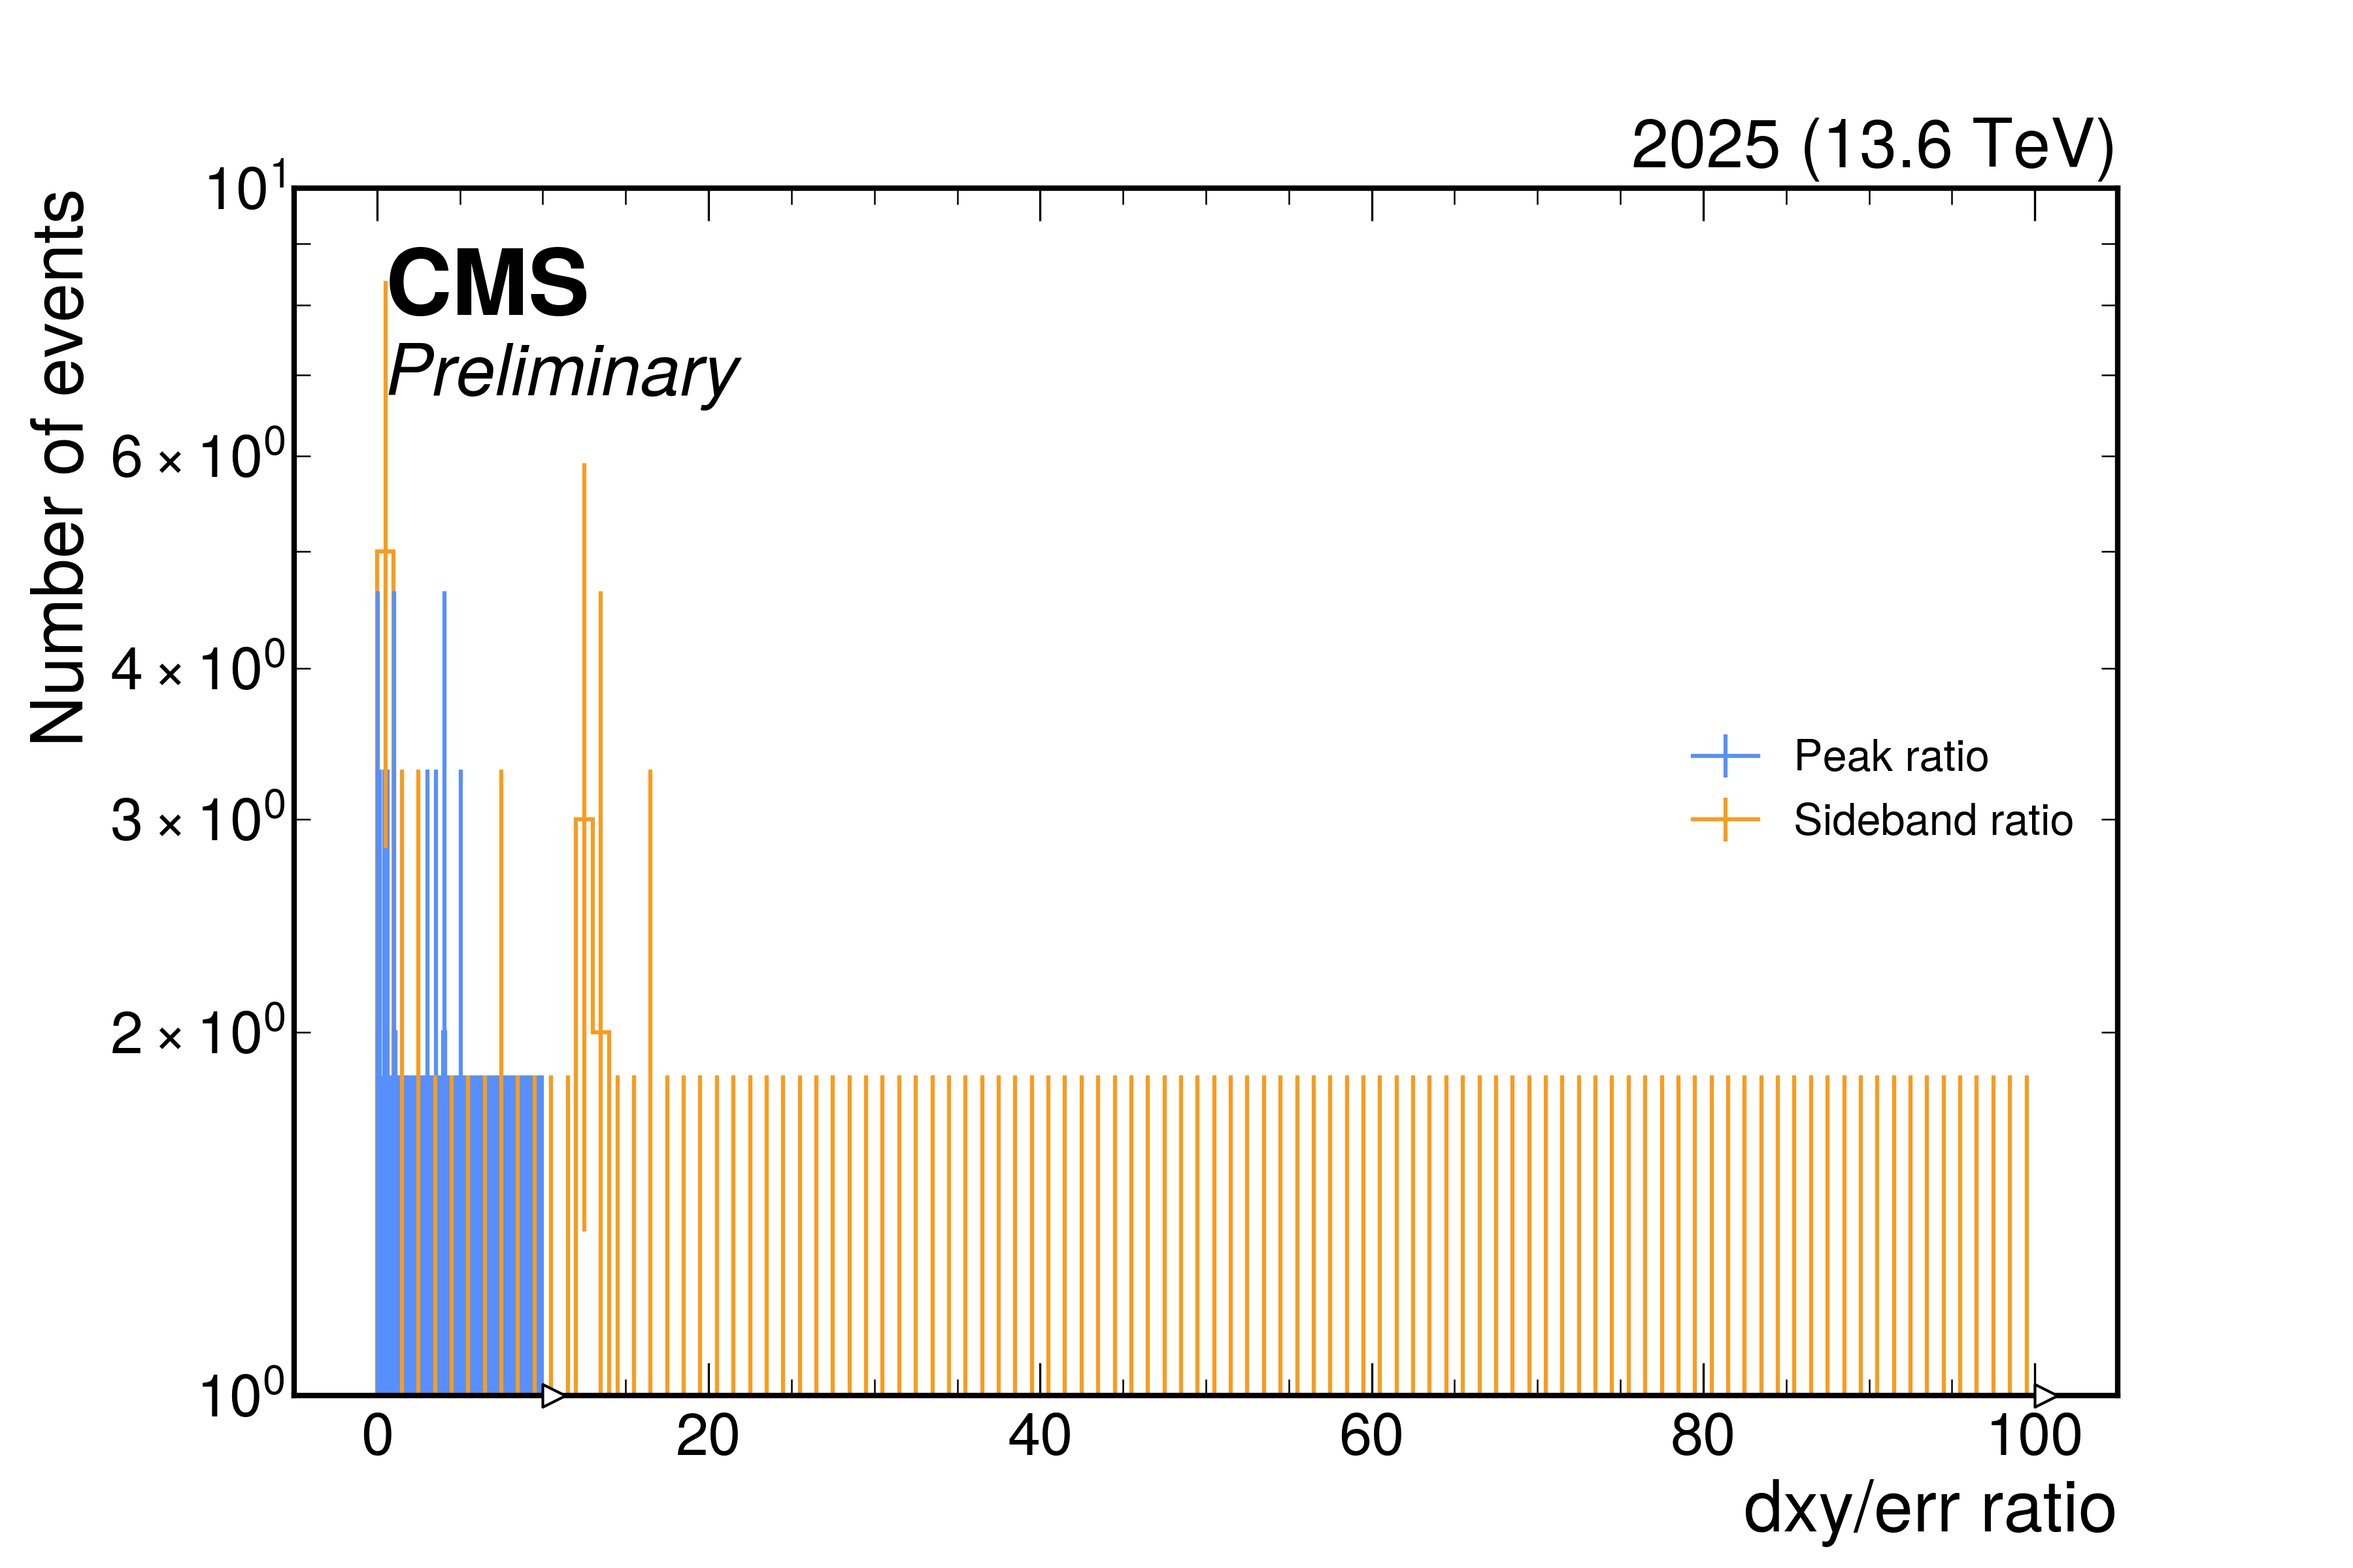
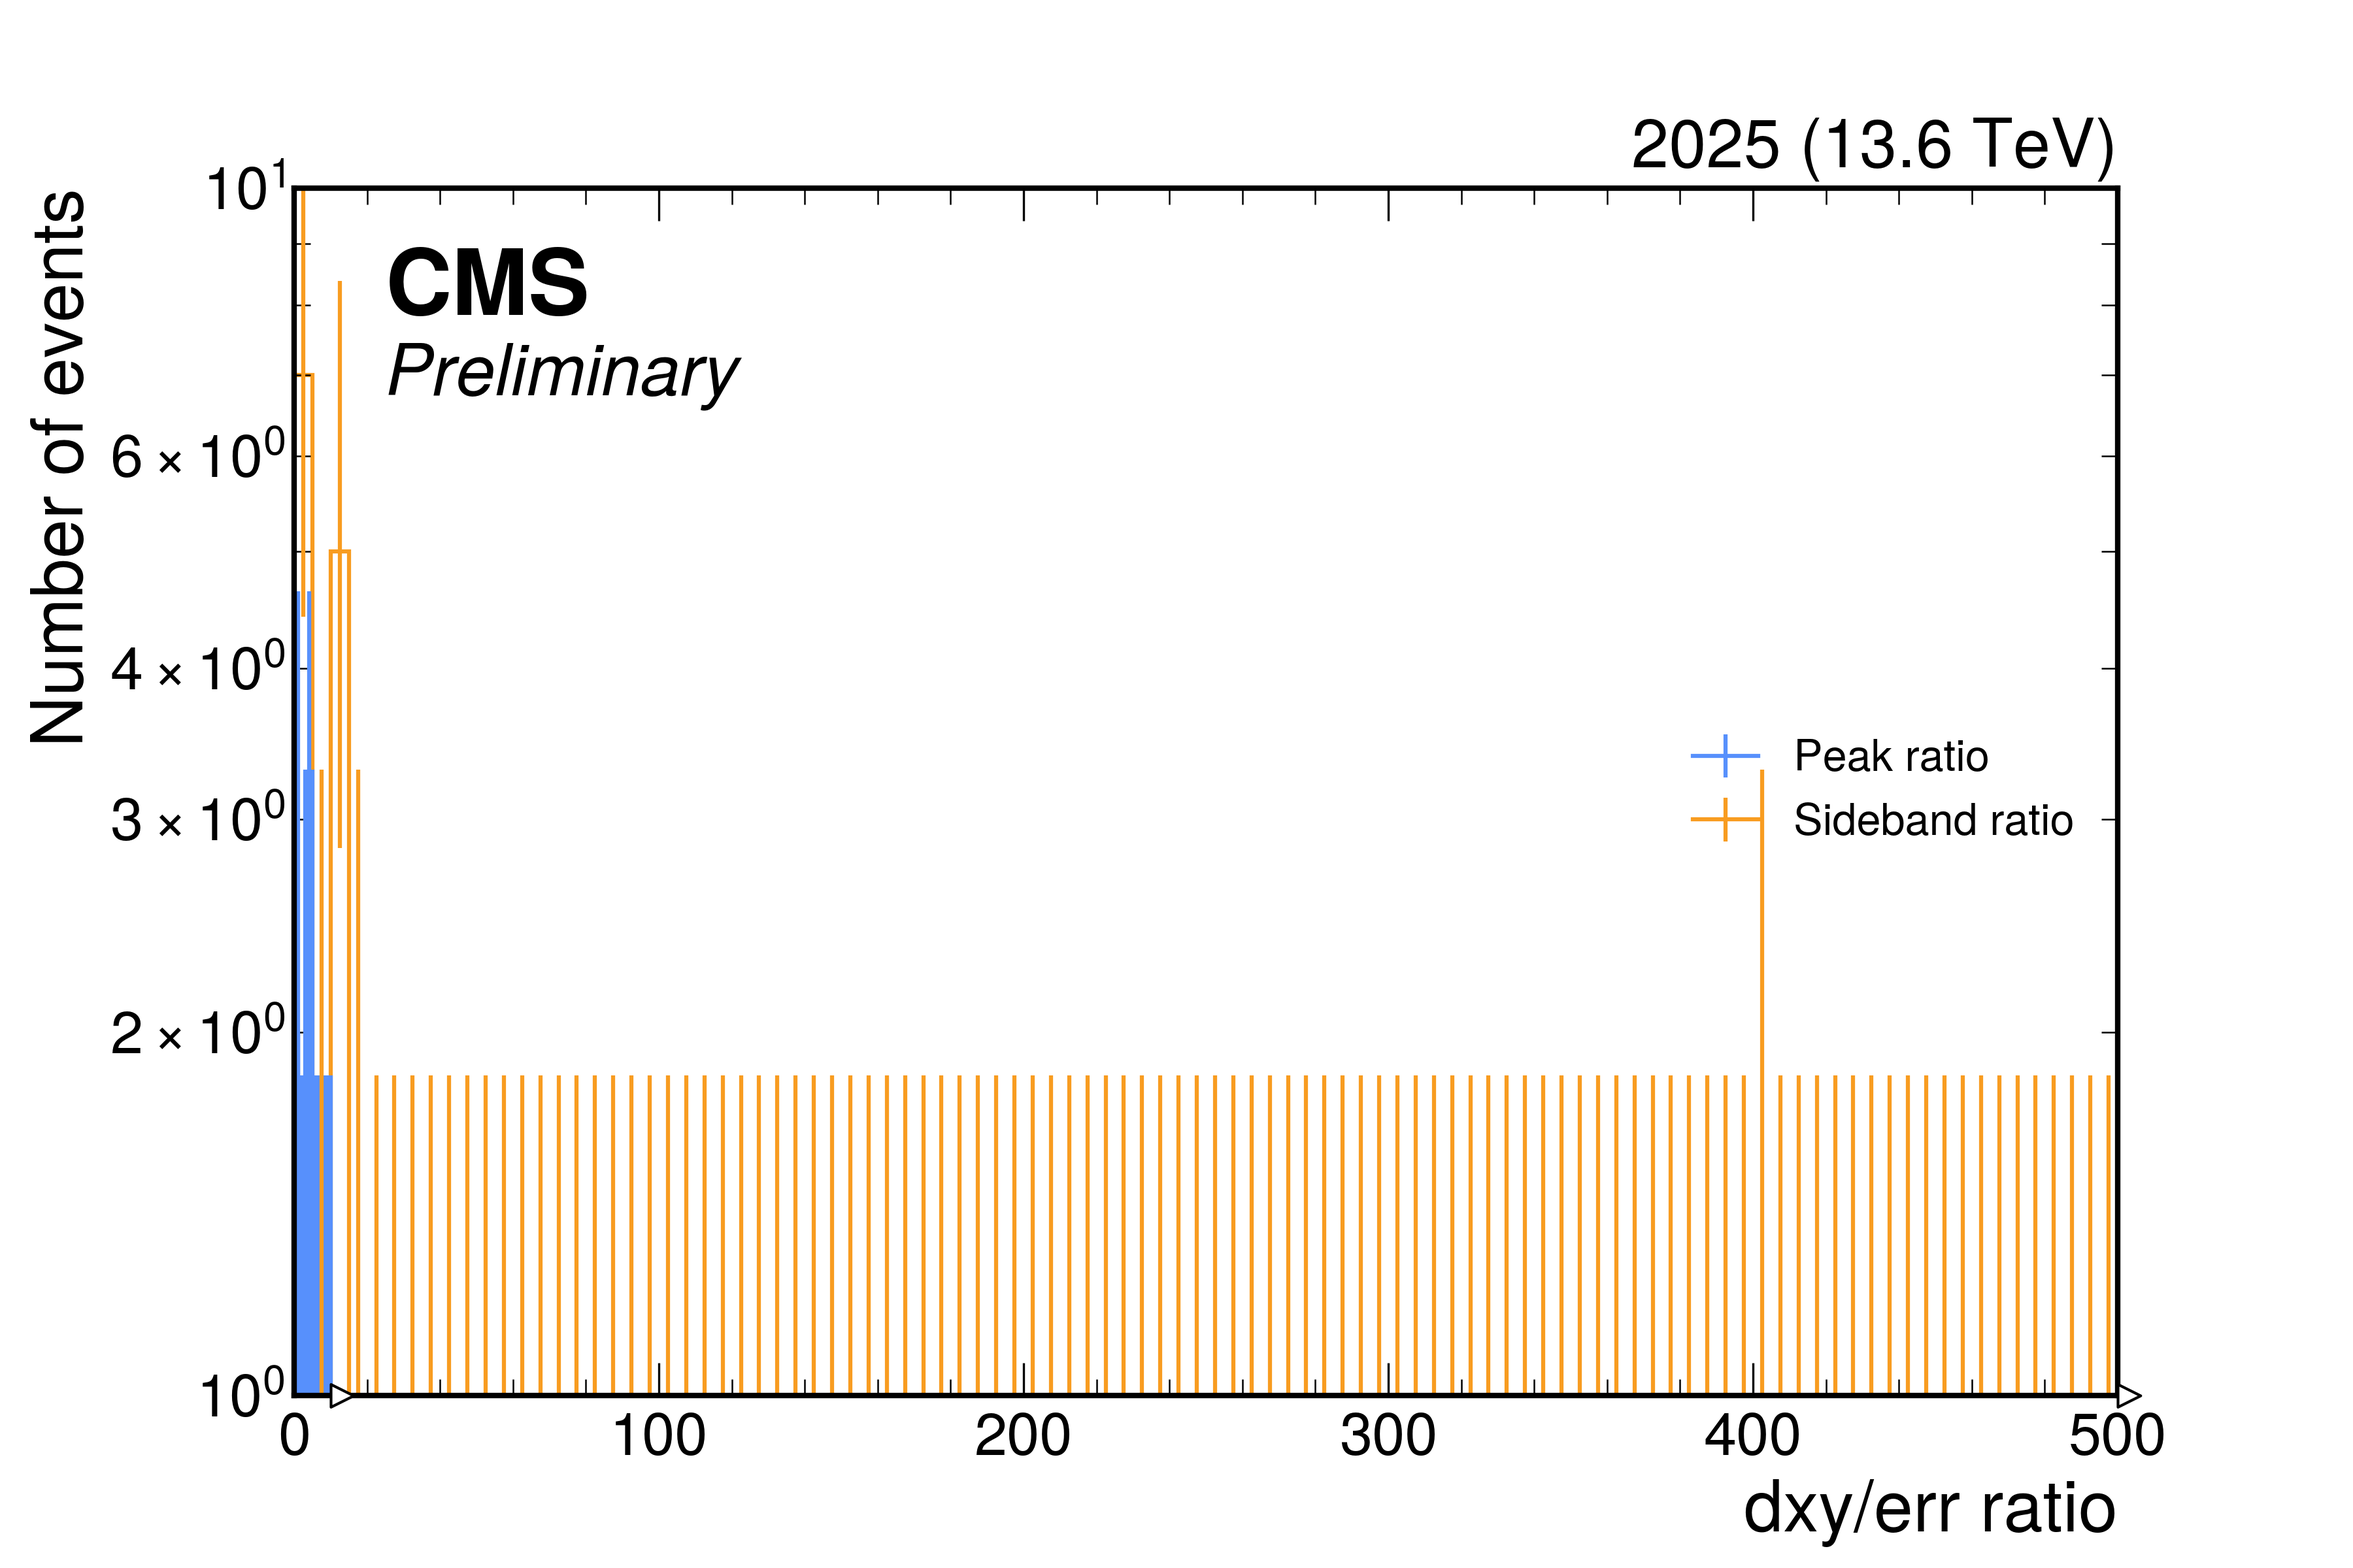
fix range

Changed region(s): [[0.1244, 0.1875, 0.9333, 0.9375]]

diff --git a/draw.py b/draw.py
@@ -200,7 +200,8 @@ yMin = 1
 yMax = 10**np.ceil(np.log10(h_ratio_pk.values().max()))
 
 ratioValues = np.abs(sidebands_bin_values)/sidebands_err_values
-h_ratio_sb = hist.new.Reg(100, 0, 100, name="ratio_sb", label="ratio_sb").Double()
+ax.set_xlim(0, 500)
+h_ratio_sb = hist.new.Reg(40, 0, 20, name="ratio_sb", label="ratio_sb").Double()
 for value in ratioValues:
     h_ratio_sb.fill(ratio_sb=value)
 h_ratio_sb.plot(ax=ax, label="Sideband ratio")
